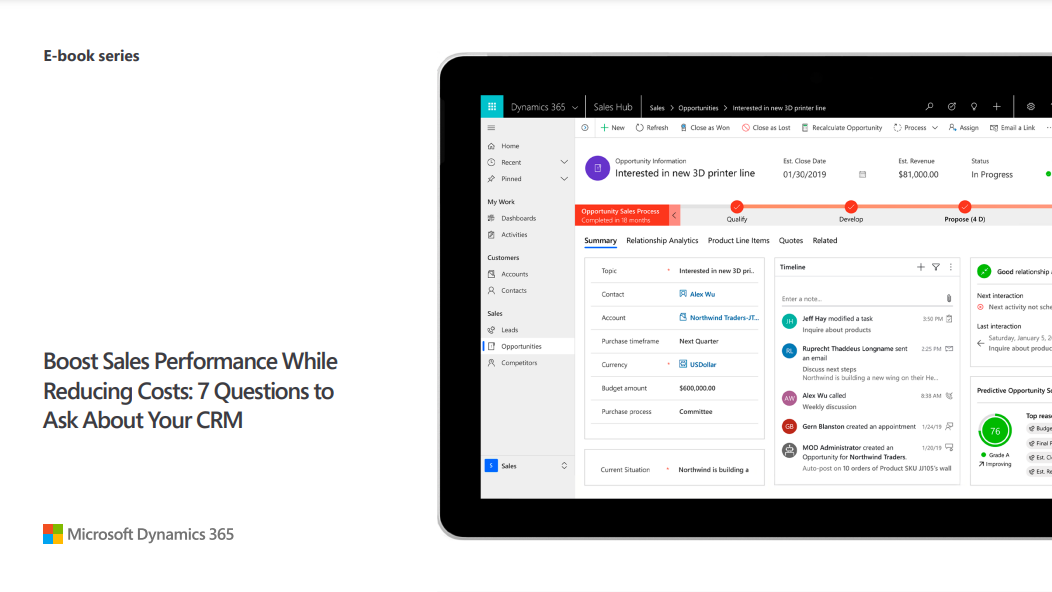
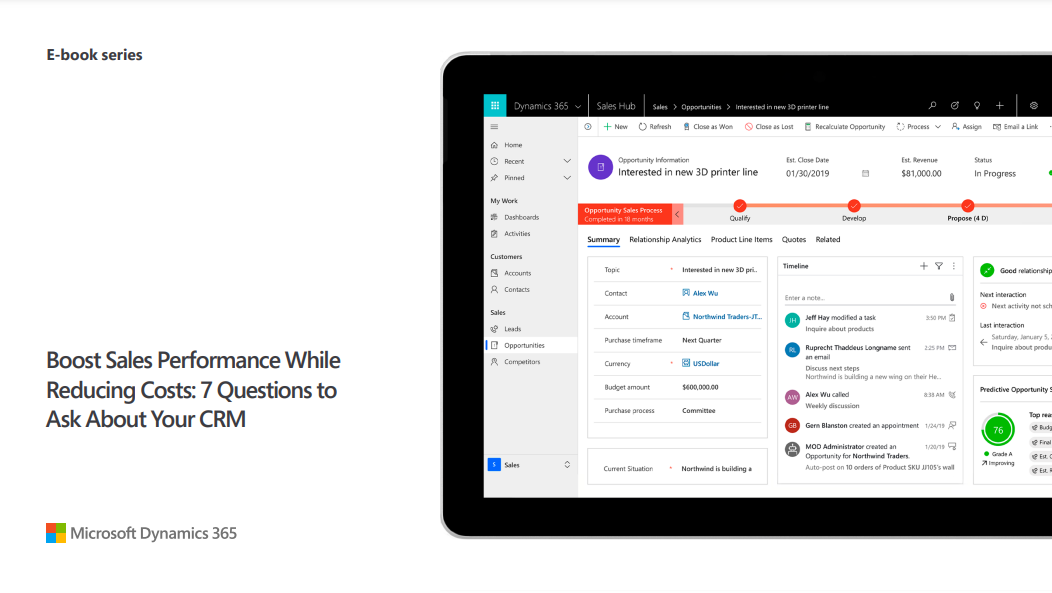
Images size reduced

diff --git a/311-us.html b/311-us.html
@@ -152,7 +152,7 @@
 </ul></p>
 <p><span style="font-family: helvetica neue helvetica, arial, sans-serif">Determining the next best way to interact with customers by capturing their feedback and conducting sentiment analysis.</span></p>
 
-<br><br><br><img style="display: block; margin-left: auto; margin-right: auto; border-width: 1px;" src="./311_files/asset-311-us.PNG" alt="thumbnail" width="83%">
+<br><br><br><img style="display: block; margin-left: auto; margin-right: auto; border-width: 1px;" src="./311_files/asset-311-us.PNG" alt="thumbnail" width="43%">
 </div>
 </div>
 </div>

diff --git a/311_files/index-311-us.html b/311_files/index-311-us.html
@@ -2055,7 +2055,7 @@
                                         >
                                           <tbody>
                                             <tr>
-                                              <td width="20" align="left">
+                                              <td width="20" align="right">
                                                 <input
                                                   type="checkbox"
                                                   name="OptIn"
